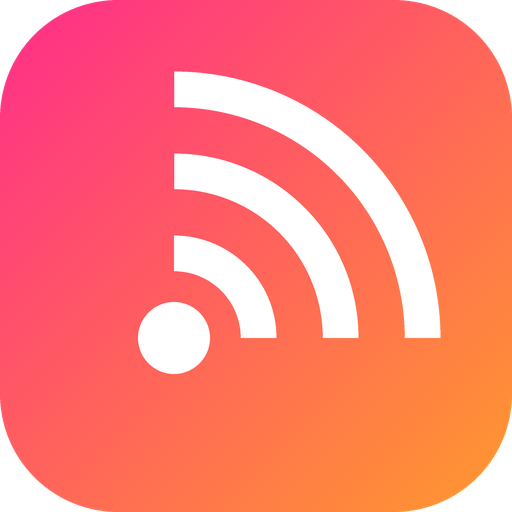
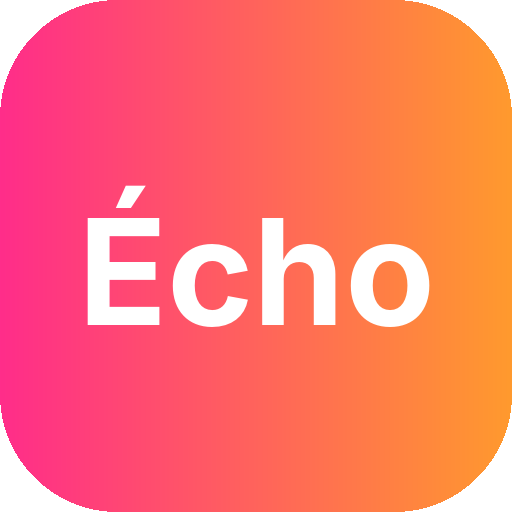
Écho : nom et icône, annuaire de radios local, pastille qui glisse, bulles de présentation
Claude-Session: https://claude.ai/code/session_01FoSFZf4kRQzfYCD7htRPV1

diff --git a/app.js b/app.js
@@ -1,5 +1,5 @@
 "use strict";
-/* Radio Francis — version bureau (appli web installable depuis Chrome). */
+/* Écho — radios & podcasts, version ordinateur (appli web installable depuis Chrome). */
 
 // ───────────────────────── Données ─────────────────────────
 const RF = "https://stream.radiofrance.fr";
@@ -55,6 +55,7 @@ const temps = (s) => { s = Math.max(0, Math.floor(s || 0)); const h = Math.floor
   return h ? `${h}:${String(m).padStart(2, "0")}:${String(x).padStart(2, "0")}` : `${m}:${String(x).padStart(2, "0")}`; };
 const propre = (t) => { t = String(t || "").replace(/\s+/g, " ").trim();
   const l = t.replace(/[^A-Za-zÀ-ÿ]/g, ""); if (l && l === l.toUpperCase() && l.length > 3) t = t.toLowerCase().replace(/(^|[\s(\-'"])(\p{L})/gu, (m, a, b) => a + b.toUpperCase()); return t; };
+const cleNom = (n) => String(n || "").normalize("NFD").replace(/\p{M}/gu, "").toLowerCase().replace(/[^a-z0-9]/g, "");
 const melange = (a, b, k) => { const p = (h) => [1, 3, 5].map((i) => parseInt(h.slice(i, i + 2), 16));
   const x = p(a), y = p(b); return "#" + x.map((v, i) => Math.round(v + (y[i] - v) * k).toString(16).padStart(2, "0")).join(""); };
 
@@ -413,23 +414,48 @@ function choisirMode(m) {
 $("#mode-recherche").addEventListener("click", (e) => { const b = e.target.closest("[data-mode]"); if (b) choisirMode(b.dataset.mode); });
 function afficherPuces() {
   const noms = (modeRecherche === "radios" ? GENRES_RADIOS : THEMES_PODCASTS).map((t) => t[0]);
-  $("#puces-recherche").innerHTML = noms.map((n) => `<button class="puce ${n === themeRecherche ? "actif" : ""}" data-theme="${echap(n)}">${echap(n)}</button>`).join("");
-  $("#puces-recherche .actif")?.scrollIntoView({ inline: "center", block: "nearest", behavior: "smooth" });
+  const zone = $("#puces-recherche");
+  if (zone.dataset.mode !== modeRecherche) {
+    zone.dataset.mode = modeRecherche;
+    zone.innerHTML = `<div class="pastille" id="pastille"></div>` +
+      noms.map((n) => `<button class="puce" data-theme="${echap(n)}">${echap(n)}</button>`).join("");
+  }
+  // La pastille glisse jusqu'à la catégorie choisie
+  zone.querySelectorAll(".puce").forEach((b) => b.classList.toggle("actif", b.dataset.theme === themeRecherche));
+  const b = zone.querySelector(".puce.actif"), p = $("#pastille");
+  if (b && p) {
+    p.style.left = b.offsetLeft + "px"; p.style.width = b.offsetWidth + "px"; p.style.top = b.offsetTop + "px"; p.style.height = b.offsetHeight + "px";
+    p.animate([{ transform: "scaleY(1)" }, { transform: "scaleY(.85) scaleX(1.06)" }, { transform: "scaleY(1)" }], { duration: 420 });
+    b.scrollIntoView({ inline: "center", block: "nearest", behavior: "smooth" });
+  }
 }
 $("#puces-recherche").addEventListener("click", (e) => { const b = e.target.closest("[data-theme]"); if (!b) return; themeRecherche = b.dataset.theme; $("#champ-recherche").value = ""; afficherPuces(); chercher(); });
 let minuterieRecherche;
 $("#champ-recherche").addEventListener("input", () => { clearTimeout(minuterieRecherche); minuterieRecherche = setTimeout(chercher, 400); });
 
-const serveursRB = ["de1", "de2", "fi1", "at1", "nl1", "all"];
-let derniereErreurRB = "";
-async function radiosRB(chemin) {
-  for (const s of serveursRB) {
-    try {
-      const r = await json(`https://${s}.api.radio-browser.info/json/${chemin}`);
-      if (Array.isArray(r)) return r;
-    } catch (e) { derniereErreurRB = `${s} : ${e.message || e}`; console.warn("Annuaire radio", s, e); }
+// Annuaire des radios hébergé avec l'appli (mis à jour chaque jour) : rien à joindre d'extérieur
+let annuaire = null;
+async function chargerAnnuaire() {
+  if (annuaire) return annuaire;
+  const r = await fetch("donnees/radios.json", { cache: "no-cache" });
+  if (!r.ok) throw new Error("annuaire " + r.status);
+  annuaire = (await r.json()).map((x) => ({ stationuuid: x.id, name: x.n, url_resolved: x.u, favicon: x.f, tags: x.t,
+    countrycode: x.c, country: x.c, bitrate: x.b, clickcount: x.k, cle: cleNom(x.n) }));
+  return annuaire;
+}
+async function radiosLocales({ q, tag }) {
+  const tout = await chargerAnnuaire();
+  if (q) {
+    const c = cleNom(q);
+    return tout.filter((r) => r.cle.includes(c))
+      .sort((a, b) => (b.cle.startsWith(c) - a.cle.startsWith(c)) || (b.countrycode === "FR") - (a.countrycode === "FR") || b.clickcount - a.clickcount)
+      .slice(0, 50);
   }
-  throw new Error(derniereErreurRB);
+  const fr = tout.filter((r) => r.countrycode === "FR");
+  if (!tag) return fr.slice(0, 60);
+  const avec = (l) => l.filter((r) => (r.tags || "").toLowerCase().split(",").some((t) => t.trim().includes(tag)));
+  const res = avec(fr);
+  return res.length >= 15 ? res.slice(0, 60) : [...res, ...avec(tout.filter((r) => r.countrycode !== "FR"))].slice(0, 60);
 }
 function depuisItunes(o) { return o.feedUrl ? { feed: o.feedUrl, titre: o.collectionName || o.trackName, auteur: o.artistName || "", image: o.artworkUrl600 || o.artworkUrl100 } : null; }
 async function podcastsPopulaires(genre) {
@@ -452,10 +478,7 @@ async function chercher() {
   try {
     if (mode === "radios") {
       const tag = GENRES_RADIOS.find((t) => t[0] === theme)?.[1];
-      const base = "limit=50&hidebroken=true&order=clickcount&reverse=true";
-      const radios = q.length >= 2 ? await radiosRB(`stations/search?name=${encodeURIComponent(q)}&${base}`)
-        : tag ? await radiosRB(`stations/search?tag=${encodeURIComponent(tag)}&countrycode=FR&${base}`)
-        : await radiosRB(`stations/search?countrycode=FR&${base}`);
+      const radios = await radiosLocales({ q: q.length >= 2 ? q : null, tag });
       const titre = q.length >= 2 ? "Radios trouvées" : tag ? `Radios · ${echap(theme)}` : "Les radios les plus écoutées en France";
       html = radios.length ? `<div class="titre-liste">${titre}</div>` + lignesRadios(radios) : `<p class="doux">Aucune radio trouvée.</p>`;
     } else {
@@ -468,7 +491,7 @@ async function chercher() {
     }
   } catch (e) {
     html = mode === "radios"
-      ? `<p class="erreur">L'annuaire des radios ne répond pas depuis ce navigateur.<br><small>${echap(e.message)}</small></p>`
+      ? `<p class="erreur">Impossible de charger l'annuaire des radios.<br><small>${echap(e.message)}</small></p>`
       : `<p class="erreur">Impossible de joindre le catalogue des podcasts. Vérifie ta connexion.</p>`;
   }
   if (mode === modeRecherche && theme === themeRecherche) zone.innerHTML = html;
@@ -494,7 +517,6 @@ function lignesPodcasts(pods) {
       <button class="bouton ${deja ? "gris" : ""}" data-ajouter-pod="${echap(p.feed)}" ${deja ? "disabled" : ""}>${deja ? "Ajouté" : "Ajouter"}</button></div>`;
   }).join("");
 }
-const cleNom = (n) => String(n || "").normalize("NFD").replace(/\p{M}/gu, "").toLowerCase().replace(/[^a-z0-9]/g, "");
 function radioDepuisRB(r) {
   // Radio connue (FIP, Nova…) : flux officiel, logo et titres en cours
   const connue = CATALOGUE.find((c) => cleNom(c.nom) === cleNom(r.name) || cleNom(c.nom) === cleNom(r.name).replace(/^radio/, ""));
@@ -526,10 +548,40 @@ $("#bouton-recherche").addEventListener("click", ouvrirRecherche);
 $("#bouton-options").addEventListener("click", () => { afficherOptions(); ouvrir("#panneau-options"); });
 $("#lecteur").addEventListener("click", (e) => { if (courant?.type === "podcast" && !e.target.closest("button,input,label")) ouvrirPodcast(courant.podcast); });
 
+// ───────────────────────── Bulles de présentation ─────────────────────────
+const BULLES = [
+  ["É", "Bienvenue sur Écho", "Tes radios et tes podcasts préférés, réunis au même endroit. Un clic et ça joue."],
+  ["＋", "Ajoute tes radios", "Clique sur la loupe, cherche une radio par son nom ou par style, puis « Ajouter ». Clique sur une vignette pour écouter."],
+  ["♪", "Et tes podcasts", "Passe sur l'onglet Podcasts : suis tes émissions, déplie un épisode pour lire son résumé, reprends là où tu t'étais arrêté."],
+  ["⌨", "Au clavier", "Espace pour lecture / pause, flèches gauche et droite pour changer d'onglet, Échap pour fermer. Les touches multimédia marchent aussi."],
+  ["G", "Garde tout avec Google", "Connecte ton compte Google : tes radios et tes podcasts te suivent sur ton ordinateur et ton téléphone."],
+];
+let bulle = 0;
+function afficherBulle() {
+  $("#bulles-piste").style.transform = `translateX(${-100 * bulle}%)`;
+  $("#points").innerHTML = BULLES.map((_, i) => `<i class="${i === bulle ? "actif" : ""}"></i>`).join("");
+  const fin = bulle === BULLES.length - 1;
+  $("#accueil-passer").textContent = fin ? "Plus tard" : "Passer";
+  const b = $("#accueil-suivant");
+  b.className = fin ? "bouton google" : "bouton";
+  b.innerHTML = fin ? "<b>G</b> Se connecter avec Google" : "Suivant";
+}
+function ouvrirAccueil() {
+  $("#bulles-piste").innerHTML = BULLES.map(([s, t, p]) => `<div class="une-bulle"><div class="rond-bulle">${s}</div><h2>${t}</h2><p>${p}</p></div>`).join("");
+  bulle = 0; afficherBulle(); $("#accueil").hidden = false;
+}
+function fermerAccueil() { $("#accueil").hidden = true; ecrire("accueilVu", true); }
+$("#accueil-passer").addEventListener("click", fermerAccueil);
+$("#accueil-suivant").addEventListener("click", () => {
+  if (bulle < BULLES.length - 1) { bulle++; afficherBulle(); }
+  else { fermerAccueil(); window.connecterGoogle?.(); }
+});
+
 // ───────────────────────── Démarrage ─────────────────────────
 appliquerTheme();
 afficherRadios();
 afficherPodcasts();
 requestAnimationFrame(() => allerPage(0));
 window.addEventListener("resize", () => allerPage(page));
+if (!lire("accueilVu", false)) ouvrirAccueil();
 if ("serviceWorker" in navigator) navigator.serviceWorker.register("sw.js").catch(() => {});

diff --git a/style.css b/style.css
@@ -97,10 +97,14 @@ input[type=range] { accent-color: var(--a1); }
 .retour { width: 44px; height: 44px; border-radius: 50%; background: var(--carte); font-size: 20px; }
 #champ-recherche { flex: 1; height: 50px; border-radius: 25px; border: 0; padding: 0 20px; background: var(--carte); color: var(--texte); font-size: 16px; outline: none; }
 #champ-recherche:focus { box-shadow: 0 0 0 2px var(--a1); }
-.puces { display: flex; flex: none; gap: 8px; overflow-x: auto; overflow-y: hidden; padding: 6px 2px 12px; scrollbar-width: none; }
+.puces { position: relative; display: flex; flex: none; gap: 8px; overflow-x: auto; overflow-y: hidden; padding: 6px 2px 12px; scrollbar-width: none; }
 .puces::-webkit-scrollbar { display: none; }
 .puce { flex: none; line-height: 1.2; white-space: nowrap; padding: 8px 16px; border-radius: 18px; background: rgba(255,255,255,.08); font-size: 14px; }
+.puce { position: relative; z-index: 1; transition: color .3s; }
+#puces-recherche .puce.actif { background: transparent; font-weight: 700; color: #fff; }
 .puce.actif { background: var(--degrade); font-weight: 700; color: #fff; }
+.pastille { position: absolute; z-index: 0; border-radius: 18px; background: var(--degrade);
+  transition: left .45s cubic-bezier(.5,1.5,.4,.9), width .45s cubic-bezier(.5,1.5,.4,.9); }
 .liste { flex: 1; min-height: 0; overflow-y: auto; display: flex; flex-direction: column; gap: 8px; padding-bottom: 140px; }
 .ligne { display: flex; align-items: center; gap: 14px; padding: 10px; border-radius: 18px; background: var(--carte); }
 .ligne img, .ligne .ini { width: 58px; height: 58px; border-radius: 12px; object-fit: cover; flex: none; background: rgba(255,255,255,.08); }
@@ -144,3 +148,20 @@ input[type=range] { accent-color: var(--a1); }
 
 .onglets.mode { margin: 0; flex: none; }
 .onglets.mode button { padding: 11px 20px; }
+
+/* Bulles de présentation */
+.accueil { position: fixed; inset: 0; z-index: 50; background: rgba(0,0,0,.7); display: grid; place-items: center; animation: fondu .3s; }
+@keyframes fondu { from { opacity: 0; } }
+.bulle { width: min(460px, calc(100% - 40px)); background: var(--carte); border-radius: 32px; padding: 30px 0 22px; overflow: hidden; animation: panneau .5s cubic-bezier(.3,1.3,.4,1); }
+.bulles-piste { display: flex; transition: transform .5s cubic-bezier(.4,1.2,.4,1); }
+.une-bulle { flex: 0 0 100%; padding: 0 34px; text-align: center; }
+.une-bulle .rond-bulle { width: 110px; height: 110px; margin: 0 auto 22px; border-radius: 50%; background: var(--degrade); display: grid; place-items: center; font-size: 50px; font-weight: 900; color: #fff; }
+.une-bulle h2 { margin: 0 0 10px; font-size: 24px; font-weight: 900; }
+.une-bulle p { margin: 0; color: var(--doux); line-height: 1.55; min-height: 75px; }
+.points { display: flex; justify-content: center; gap: 7px; margin: 22px 0 18px; }
+.points i { height: 8px; width: 8px; border-radius: 4px; background: color-mix(in srgb, var(--texte) 20%, transparent); transition: width .35s cubic-bezier(.5,1.6,.4,1), background .3s; }
+.points i.actif { width: 22px; background: var(--a1); }
+.bulle-actions { display: flex; justify-content: space-between; align-items: center; padding: 0 22px; }
+.lien { color: var(--doux); padding: 10px; }
+.bouton.google { background: #fff; color: #1f1f1f; display: flex; gap: 8px; align-items: center; }
+.bouton.google b { color: #4285F4; font-weight: 900; }

diff --git a/index.html b/index.html
@@ -3,7 +3,7 @@
 <head>
   <meta charset="utf-8">
   <meta name="viewport" content="width=device-width, initial-scale=1, viewport-fit=cover">
-  <title>Radio Francis</title>
+  <title>Écho — radios & podcasts</title>
   <meta name="description" content="Tes radios et tes podcasts préférés, en un clic.">
   <meta name="theme-color" content="#0F0B10">
   <link rel="manifest" href="manifest.webmanifest">
@@ -11,9 +11,9 @@
   <link rel="apple-touch-icon" href="icons/apple-touch-icon.png">
   <link rel="preconnect" href="https://fonts.googleapis.com">
   <link rel="stylesheet" href="https://fonts.googleapis.com/css2?family=Inter:wght@400;500;600;700;800;900&display=swap">
-  <link rel="stylesheet" href="style.css?v=6">
+  <link rel="stylesheet" href="style.css?v=7">
   <script src="https://cdn.jsdelivr.net/npm/hls.js@1.5.17/dist/hls.min.js" defer></script>
-  <script src="app.js?v=6" defer></script>
+  <script src="app.js?v=7" defer></script>
 </head>
 <body>
   <div id="appli">
@@ -101,9 +101,21 @@
       <section class="carte"><h3>Couleurs</h3><div class="choix" id="choix-couleurs"></div></section>
       <section class="carte">
         <h3>À propos</h3>
-        <p class="doux">Version bureau de Radio Francis. Les touches multimédia du clavier (lecture, pause) fonctionnent.
+        <p class="doux">Écho, version ordinateur. Les touches multimédia du clavier (lecture, pause) fonctionnent.
           Certains sites de radios n'autorisent pas l'affichage du titre en cours depuis un navigateur : dans ce cas, seul le nom de la radio s'affiche.</p>
       </section>
+    </div>
+  </div>
+
+  <!-- Bulles de présentation (premier lancement) -->
+  <div class="accueil" id="accueil" hidden>
+    <div class="bulle">
+      <div class="bulles-piste" id="bulles-piste"></div>
+      <div class="points" id="points"></div>
+      <div class="bulle-actions">
+        <button class="lien" id="accueil-passer">Passer</button>
+        <button class="bouton" id="accueil-suivant">Suivant</button>
+      </div>
     </div>
   </div>
 

diff --git a/sw.js b/sw.js
@@ -1,5 +1,5 @@
 // Garde l'interface de l'appli en cache pour qu'elle s'ouvre instantanément (les flux restent en direct).
-const CACHE = "radio-francis-v6";
+const CACHE = "echo-v7";
 const FICHIERS = [
   "./", "index.html", "style.css", "app.js", "manifest.webmanifest",
   "icons/icone-192.png", "icons/icone-512.png",
